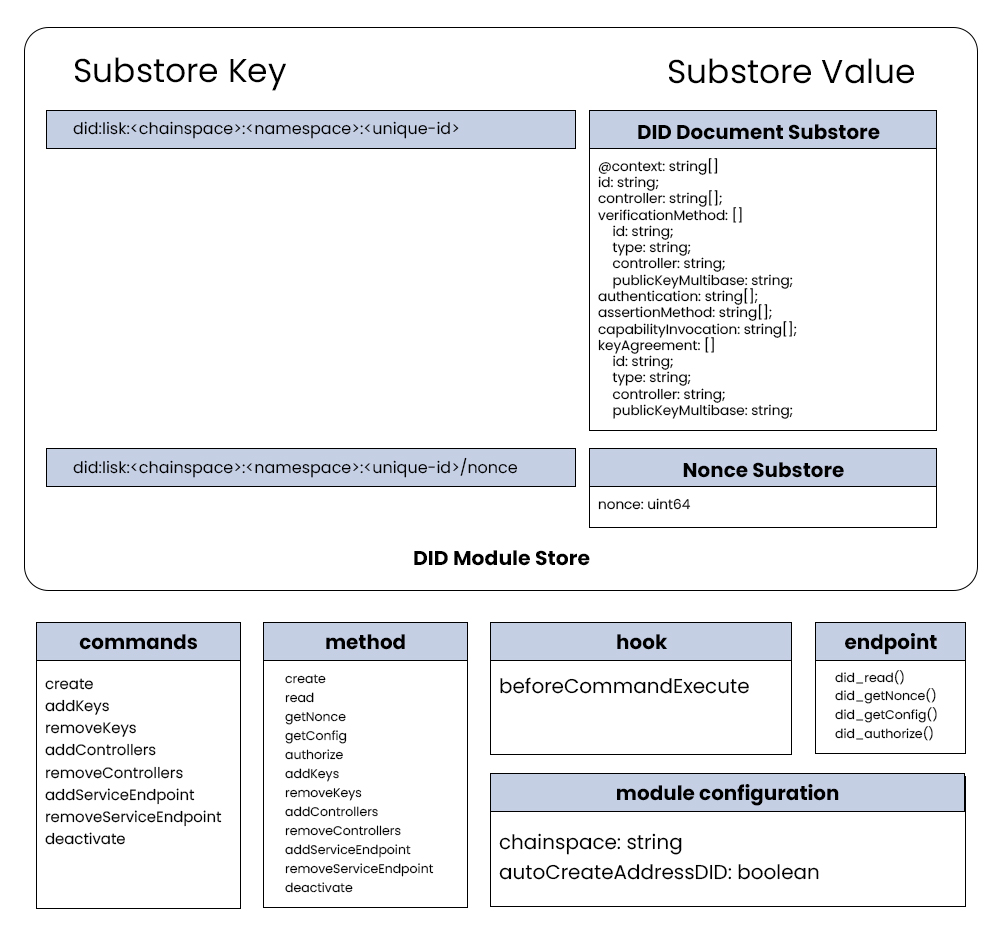
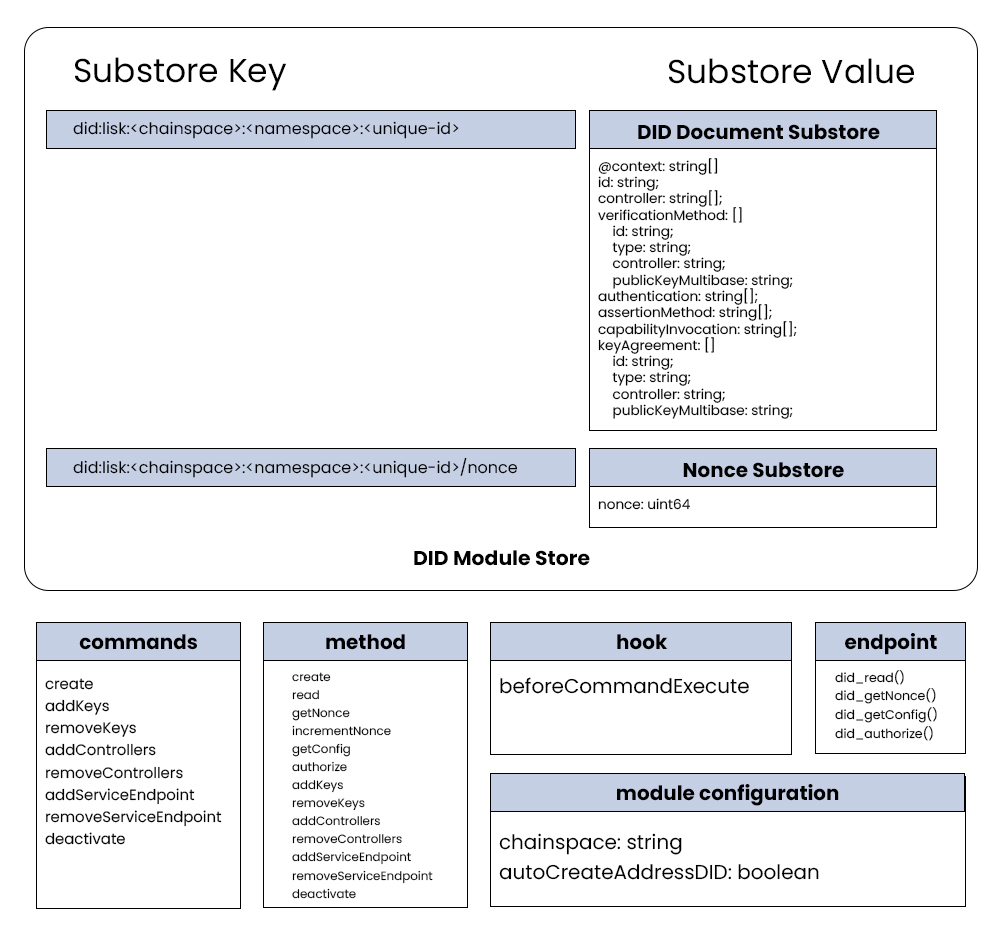
Add incrementNonce to did-method-spec

Changed region(s): [[0.2784, 0.7265, 0.4331, 0.9686]]

diff --git a/packages/lisk-did-module/docs/did-method-spec.md b/packages/lisk-did-module/docs/did-method-spec.md
@@ -3,13 +3,14 @@
 ```
 Title: did:lisk Method Specification
 Author: Aldo Suhartono Putra <aldhosutra@gmail.com>
-Version: 2023.08.27
+Version: 2023.08.29
 
 Version History:
+- 2023.08.29: Add incrementNonce
 - 2023.08.27: Add Authorization Factors
 - 2023.08.19: Initial release.
 
-Last Modified: August 27, 2023
+Last Modified: August 29, 2023
 ```
 
 This document defines the syntax, data model, and operations for the `did:lisk` Decentralized Identifier (DID) method, specifically for the Lisk Sidechain.
@@ -403,6 +404,15 @@ Furthermore, following is provided `did_authorize` endpoint, that serves off-cha
 
 ```typescript
 did_authorize(did: string, factors: AuthorizationFactors) => AuthorizationResult[]
+```
+
+In addition, developers have the option to utilize the `incrementNonce` method, allowing them to increase the nonce associated with the designated DID subject. This functionality is valuable in scenarios such as changing the nonce value following successful on-chain authorization, thereby mitigating the risk of replay attacks and enhance overall security.
+
+```typescript
+didMethod.incrementNonce(
+    context: MethodContext,
+    did: string,
+) => void
 ```
 
 ### Create DID (Register)
